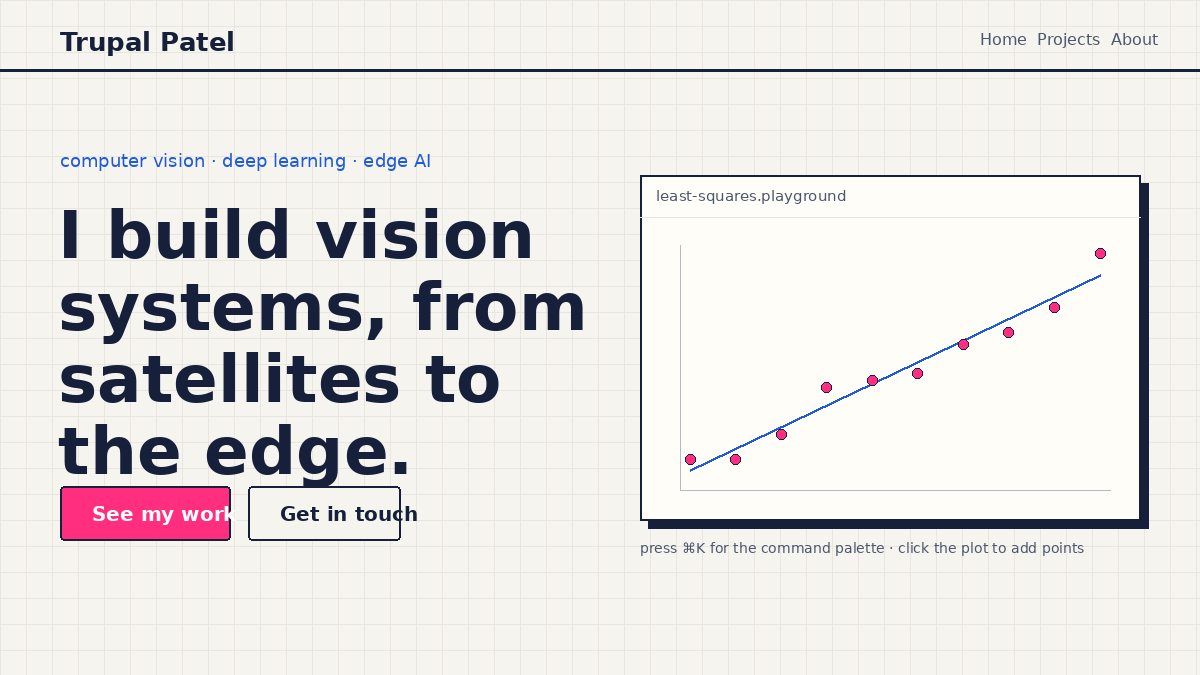
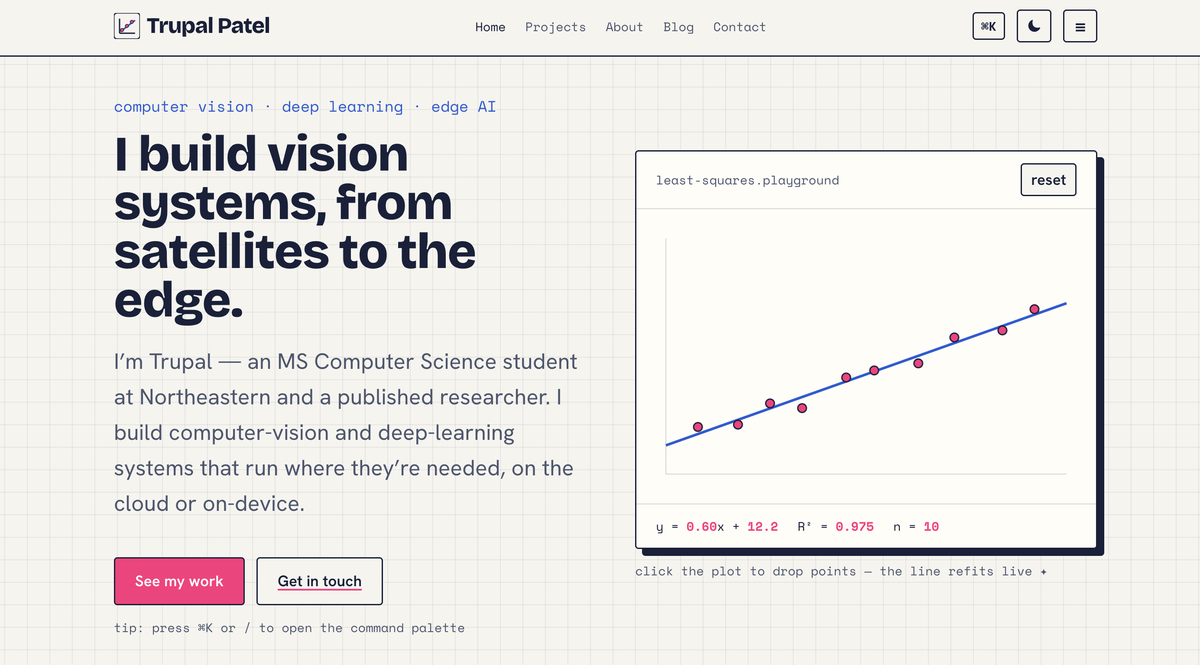
Use class ESLint config; format code

diff --git a/README.md b/README.md
@@ -1,183 +1,218 @@
-# Trupal Jageshkumar Patel's Personal Homepage
-
-A personal homepage for a computer-vision & ML engineer, built with
-**vanilla HTML5, CSS3, and ES6 modules** — no frameworks, no component
-libraries, no jQuery. The look is an editorial "plotter's notebook": a warm
-graph-paper canvas, a Bricolage Grotesque / Hanken Grotesk / Space Mono type
-system, and a navy + magenta + cobalt palette. It ships three original,
-hand-written interactive features (a regression playground, an orbital sandbox,
-and a ⌘K command palette).
-
-- **Live site:** https://tpatel2103.github.io/Trupal-homepage/
-- **Repository:** https://github.com/Tpatel2103/Trupal-homepage
-
----
+# Trupal Jageshkumar Patel — Personal Home Page
 
 ## Author
 
-**Trupal Jageshkumar Patel** — MS Computer Science, Northeastern University.
-[Homepage](https://tpatel2103.github.io/Trupal-homepage/) ·
-[GitHub](https://github.com/Tpatel2103) ·
-[LinkedIn](https://www.linkedin.com/in/trupal-patel-08a959268) ·
-Patel.trupa@northeastern.edu
+Trupal Jageshkumar Patel
 
-## Class link
+## Project Description
 
-CS5610 Web Development, Northeastern University —
-https://northeastern.instructure.com/courses/261032
+This project is a personal portfolio website for Trupal Jageshkumar Patel. The
+site presents my background, education, skills, projects, and research in a
+clean, multi-page, static front-end format. It is styled as an editorial
+"plotter's notebook" and doubles as a live portfolio for my co-op and internship
+search in computer vision and machine learning.
 
-## Video demonstration
+## Project Objective
 
-_TODO — paste the link to your ~3-minute narrated demo video (must be public)._
-A ready-to-read script is in [`docs/Trupal_Patel_Video_Script.md`](./docs/Trupal_Patel_Video_Script.md).
+The goal of this assignment was to build a personal homepage using vanilla
+HTML5, CSS3, and ES6+ — no backend and no component libraries — that introduces
+who I am, shows my education, experience, and work, and gives visitors a way to
+reach me, while meeting the course's technical requirements: semantic structure,
+responsive layout, organised CSS without `!important`, linting and formatting,
+original JavaScript features, and a public deployment.
 
-## Project objective
+## Course
 
-Build a static, front-end-only homepage that introduces me and my work,
-demonstrates clean semantic HTML, organised CSS without `!important`, and
-original JavaScript delivered as ES6 modules. The page is accessible, W3C-valid,
-and deployed as a public static site.
+CS5610 Web Development — Northeastern University
+Instructor: John Alexis Guerra Gomez
+Course link: https://johnguerra.co/classes/webDevelopment_online_fall_2026/
+Canvas: https://northeastern.instructure.com/courses/261032
 
-## Screenshot
+## Submission URLs
 
-![Screenshot of the homepage with the interactive regression playground](./images/screenshot.png)
+- Deployed URL (GitHub Pages): https://tpatel2103.github.io/Trupal-homepage/
+- Repository: https://github.com/Tpatel2103/Trupal-homepage
+- Presentation (Google Slides): _to be added_
+- Video Demonstration: _to be added_
+- Design Document: [View Design Document](./docs/Trupal_Patel_Design_Document.pdf)
 
-> **TODO:** replace with a screenshot of the *deployed* page (an animated **GIF**
-> is preferred — capture clicking the plot and the line refitting). Save it as
-> `images/screenshot.png`; it will appear above.
+## Screenshots
 
----
+**Home — hero with the interactive regression plot**
 
-## Deliverables
+![Homepage hero with the interactive regression plot](./images/screenshot.png)
 
-| Item | Where |
-| --- | --- |
-| Live site | https://tpatel2103.github.io/Trupal-homepage/ |
-| Source code | this repository |
-| Design document | [`docs/Trupal_Patel_Design_Document.pdf`](./docs/Trupal_Patel_Design_Document.pdf) · source: [`DESIGN.md`](./DESIGN.md) |
-| Presentation | [`docs/Trupal_Patel_Presentation.pptx`](./docs/Trupal_Patel_Presentation.pptx) (import into Google Slides, make public) |
-| Video script | [`docs/Trupal_Patel_Video_Script.md`](./docs/Trupal_Patel_Video_Script.md) |
-| Video demo | _add public link above_ |
-| Code review | GitHub Pull Request with assigned reviewer |
+**Home — orbital sandbox**
 
----
+![Orbital sandbox, a two-body gravity simulator](./images/screenshot-orbit.png)
 
-## Project structure
+**Home — Education & Focus sections**
 
-```
-.
-├── index.html          # Home page
-├── projects.html       # Projects page (2nd URL)
-├── about.html          # About — my career journey (written by me)
-├── blog.html           # Short article (the AI-generated page)
-├── css/
-│   └── styles.css      # All styles: tokens, layout, components (no !important)
-├── js/
-│   ├── main.js         # ES6 entry module (type="module")
-│   ├── regression.js   # Original component #1 (interactive least-squares plot)
-│   ├── orbit.js        # Original component #2 (space gravity sandbox)
-│   ├── palette.js      # Original component #3 (⌘K command palette)
-│   ├── theme.js        # Light/dark theme toggle + persistence
-│   ├── nav.js          # Accessible mobile navigation
-│   └── contact.js      # Copy-email-to-clipboard
-├── images/             # SVG assets + project/about images
-├── docs/               # Design document, presentation, video script
-├── package.json        # "type": "module", scripts, dev dependencies
-├── eslint.config.js    # Class ESLint config (runs Prettier via ESLint)
-├── .prettierrc         # Prettier formatting config
-├── LICENSE             # MIT
-├── DESIGN.md           # Design document (source)
-└── README.md
-```
+![Education and focus sections in card layout](./images/screenshot-sections.png)
 
-## Instructions to build & run
+## Technologies Used
 
-No build step is required — it is a static site. To preview locally you need a
-static server (ES modules must be served over HTTP, not opened via `file://`).
+- HTML5
+- CSS3 (Grid & Flexbox — no Bootstrap or other component libraries)
+- Vanilla JavaScript (ES6 modules)
+- Canvas API (for the interactive visuals)
+- Google Fonts (Bricolage Grotesque, Hanken Grotesk, Space Mono)
+- ESLint (class configuration)
+- Prettier
+- Git & GitHub
+- GitHub Pages
+
+## Pages Included
+
+**Home (index.html)**
+A full hero with my name, a monospace kicker, and the headline "I build vision
+systems, from satellites to the edge," alongside an interactive least-squares
+regression playground. Below it are the orbital sandbox and the About, Education,
+Skills, Courses, Projects, Research, Hobbies, and Contact sections.
+
+**Projects (projects.html)**
+An editorial list of the systems I have built end to end — real-time object
+detection on Jetson Nano, IoT waste-bin monitoring, satellite image processing at
+ISRO, hyperspectral leaf-pathogen detection, and a full-stack blood-bank
+application — each with a cover, a short write-up, tags, and links to
+publications where relevant.
+
+**About (about.html)**
+My career journey in first person, from Computer Engineering at CHARUSAT and
+research in computer vision and IoT, to my internship at ISRO's Space
+Applications Centre and my MS in Computer Science at Northeastern, with images
+from each stage.
+
+**Blog (blog.html)**
+A short article, "Getting computer vision onto the edge." This is the
+AI-generated page required by the assignment.
+
+## Creative Addition
+
+The site includes three original interactive features, all written in vanilla
+ES6 with no libraries:
+
+- **Regression playground** (hero) — click the plot to add data points and a
+  least-squares line refits in real time, with a live equation and R².
+- **Orbital sandbox** — a two-body gravity simulator; drag to launch a satellite
+  and watch it orbit, escape, or fall back. My nod to space and my
+  satellite-imaging work at ISRO.
+- **Command palette** — press ⌘K (or Ctrl-K) on any page to navigate and run
+  actions from the keyboard.
+
+## Instructions to Build & Run
+
+### Prerequisites
+
+- Node.js
+- npm
+- A modern web browser
+
+This is a static front-end website. Node.js and npm are only used for the dev
+tools (ESLint and Prettier). Because it uses ES6 modules, it must be served over
+HTTP rather than opened via `file://`.
+
+### 1. Clone the repository
 
 ```bash
-npm install          # dev tooling: eslint, prettier, serve
-npm start            # serve locally at http://localhost:3000
-npm run lint         # lint the JavaScript
-npm run format       # apply Prettier
+git clone https://github.com/Tpatel2103/Trupal-homepage.git
+cd Trupal-homepage
 ```
 
-Any static server works — e.g. `python3 -m http.server` — as long as the page is
-served over HTTP.
+### 2. Install dependencies
 
-### Deploying (GitHub Pages)
+```bash
+npm install
+```
 
-Push to the repo, then **Settings → Pages → Deploy from a branch → `main` →
-`/(root)`**. The live URL appears at the top of that page.
+Installs the dev dependencies listed in `package.json` (ESLint, Prettier, and a
+static server).
 
----
+### 3. Run the website locally
 
-## Original components
+```bash
+npm start
+```
 
-Three original, hand-written vanilla-JS features (no libraries):
+Serves the site at http://localhost:3000. Any static server works — for example
+the VS Code Live Server extension, or `python3 -m http.server`.
 
-**1. Regression playground** (`js/regression.js`) — the hero. Click/tap the plot
-to add data points; a **least-squares line** refits in real time with a live
-equation, R², and point count.
+### 4. Lint and format
 
-**2. Orbital sandbox** (`js/orbit.js`) — a space-themed two-body **gravity
-simulator**. Drag to launch a satellite (the drag vector sets its velocity) or
-tap for a circular orbit; satellites feel the planet's gravity, trail over a
-starfield, and are removed when they crash or escape. Real inverse-square
-physics with sub-stepped integration, theme-aware, with a reduced-motion
-fallback.
+```bash
+npm run lint
+npm run format
+```
 
-**3. Command palette** (`js/palette.js`) — press **⌘K / Ctrl-K** (or **/**) to
-open a keyboard-driven menu on every page: navigate, jump to sections, toggle the
-theme, copy the email, and fire commands into the plot and orbit sandbox.
+### 5. View the deployed website
 
-## Accessibility & standards
+https://tpatel2103.github.io/Trupal-homepage/
 
-- Semantic HTML5; real `<button>` elements, never `div`/`span` stand-ins.
-- Every `<img>` has meaningful `alt`; canvases have `role` + `aria-label`; live
-  readouts use `aria-live`.
-- Visible keyboard focus, a skip link, `aria` state on controls, reduced-motion
-  respected.
-- Targets zero errors at <https://validator.w3.org/>.
-- CSS uses classes, Grid + Flexbox, and no `!important`.
+## Image and Resource Attribution
 
----
+- Site logo / favicon (`favicon.svg`) and portrait placeholder (`avatar.svg`):
+  original graphics created for this project.
+- Project cover illustrations (`project-*.svg`): original graphics created for
+  this project.
+- Project images on the About page (object-detection result, waste-bin sensor,
+  and the ISRO Space Applications Centre photo): from my own projects and
+  experience.
+- NVIDIA and Northeastern / Khoury College marks: official third-party and
+  institutional logos, used as small badge icons.
+- AI-themed illustrations (`machine-learning.png`, `ai-chip.png`,
+  `ai-robot-hand.png`): generic stock illustrations, used decoratively.
 
-## Use of generative AI tools
+## Generative AI Usage
 
-| Item | Detail |
-| --- | --- |
-| Tool / model | Claude (Anthropic) |
-| How it was used | Scaffolding the project, drafting the CSS/JS, and writing the article on `blog.html` |
-| The AI-generated page | `blog.html` — the article text was written by the model and reviewed for accuracy |
-| Written by me (not AI) | `index.html`, `projects.html`, `about.html` |
+**ChatGPT (OpenAI) — GPT-5.6 Luna (Instant mode)**
 
-**Example prompt used for the AI page (blog):**
+Used for HTML, CSS, and JavaScript syntax and web-development concepts, and to
+create the Blog page entirely.
 
-> "Write a short, honest blog article for a computer-vision portfolio titled
-> 'Getting computer vision onto the edge'. Cover why edge deployment is hard,
-> techniques like quantisation and pruning, and why latency and model size
-> matter as much as accuracy. Plain, no marketing, a few short sections."
+> "What is the correct syntax to split my vanilla JavaScript into ES6 modules and
+> load them with `type=\"module\"`, and how do `import`/`export` work?"
 
-All AI-generated content was reviewed before inclusion.
+> "Write a short blog article for a computer-vision portfolio titled 'Getting
+> computer vision onto the edge', covering why edge deployment is hard,
+> quantisation and pruning, and why latency and model size matter."
 
----
+**Claude (Anthropic) — Opus-class (2026), via the Claude web app**
 
-## Submission checklist
+Used for syntax help and to explain web-development concepts.
 
-- [x] Deployed public site (GitHub Pages)
-- [x] Source on GitHub with README + MIT license
-- [x] ≥ 2 authored pages + 1 AI page (index, projects, about + blog)
-- [x] Original vanilla-JS features (three of them)
-- [x] Organised css / js / images folders; `type: "module"`
-- [x] Design document (`docs/`)
-- [x] Presentation (`docs/`) — import to Google Slides and make public
-- [ ] Record the ~3-min public video and paste the link above
-- [ ] Replace `images/screenshot.png` with a real screenshot / GIF
-- [ ] Run `npm run format` and `npm run lint`
-- [ ] Validate each page at validator.w3.org
-- [ ] Complete the code-review Pull Request
+> "How do CSS Grid and Flexbox differ, and when should I use each?"
+
+> "How do I draw and animate on an HTML canvas with `requestAnimationFrame`, and
+> keep it accessible and W3C-valid?"
+
+### Learning
+
+The AI tools were also used conversationally to explain specific web-dev concepts
+as they came up — for example, what `package.json`, ESLint, and Prettier configs
+actually do, CSS Grid vs. Flexbox, and why ES6 modules fail over `file://`.
+
+All AI-assisted output was reviewed and tested by me before it went into the
+project. The Blog page is the one page whose content is AI-generated, and it is
+labelled as such.
+
+## Repository Files
+
+- `index.html` — Home page
+- `projects.html` — Projects page
+- `about.html` — About page (my career journey)
+- `blog.html` — Blog page (AI-generated)
+- `css/styles.css` — styling for the entire site
+- `js/main.js` — entry module that wires up the page
+- `js/regression.js` — interactive least-squares regression plot
+- `js/orbit.js` — two-body orbital gravity sandbox
+- `js/palette.js` — ⌘K command palette
+- `js/theme.js` — light/dark theme toggle
+- `js/nav.js` — mobile navigation
+- `js/contact.js` — copy-email button
+- `images/` — image and SVG assets
+- `docs/` — design document, presentation, and video script
+- `package.json`, `eslint.config.js`, `.prettierrc` — tooling and configuration
 
 ## License
 
-[MIT](./LICENSE)
+This project is licensed under the MIT License. See [LICENSE](./LICENSE).
